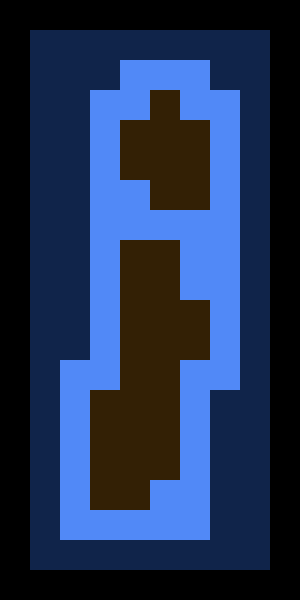
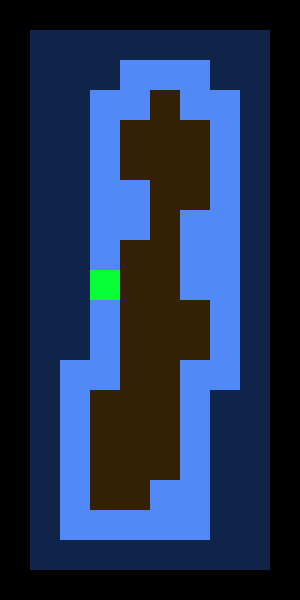
worked on classes
Water and Wind added.
Propulsion and child classes added.
Boat functions and data members re-arranged and added.

Changed region(s): [[0.48, 0.33, 0.6, 0.42], [0.3, 0.45, 0.42, 0.51]]

diff --git a/Waka/chart.cpp b/Waka/chart.cpp
@@ -13,9 +13,9 @@ map_
 	{ Feature::kUnkn, Feature::kDeep, Feature::kDeep, Feature::kShal, Feature::kLand, Feature::kLand, Feature::kLand, Feature::kShal, Feature::kDeep, Feature::kUnkn },
 	{ Feature::kUnkn, Feature::kDeep, Feature::kDeep, Feature::kShal, Feature::kLand, Feature::kLand, Feature::kLand, Feature::kShal, Feature::kDeep, Feature::kUnkn },
 	{ Feature::kUnkn, Feature::kDeep, Feature::kDeep, Feature::kShal, Feature::kShal, Feature::kLand, Feature::kLand, Feature::kShal, Feature::kDeep, Feature::kUnkn },
-	{ Feature::kUnkn, Feature::kDeep, Feature::kDeep, Feature::kShal, Feature::kShal, Feature::kShal, Feature::kShal, Feature::kShal, Feature::kDeep, Feature::kUnkn },
+	{ Feature::kUnkn, Feature::kDeep, Feature::kDeep, Feature::kShal, Feature::kShal, Feature::kLand, Feature::kShal, Feature::kShal, Feature::kDeep, Feature::kUnkn },
 	{ Feature::kUnkn, Feature::kDeep, Feature::kDeep, Feature::kShal, Feature::kLand, Feature::kLand, Feature::kShal, Feature::kShal, Feature::kDeep, Feature::kUnkn },
-	{ Feature::kUnkn, Feature::kDeep, Feature::kDeep, Feature::kShal, Feature::kLand, Feature::kLand, Feature::kShal, Feature::kShal, Feature::kDeep, Feature::kUnkn },
+	{ Feature::kUnkn, Feature::kDeep, Feature::kDeep, Feature::kStrt, Feature::kLand, Feature::kLand, Feature::kShal, Feature::kShal, Feature::kDeep, Feature::kUnkn },
 	{ Feature::kUnkn, Feature::kDeep, Feature::kDeep, Feature::kShal, Feature::kLand, Feature::kLand, Feature::kLand, Feature::kShal, Feature::kDeep, Feature::kUnkn },
 	{ Feature::kUnkn, Feature::kDeep, Feature::kDeep, Feature::kShal, Feature::kLand, Feature::kLand, Feature::kLand, Feature::kShal, Feature::kDeep, Feature::kUnkn },
 	{ Feature::kUnkn, Feature::kDeep, Feature::kShal, Feature::kShal, Feature::kLand, Feature::kLand, Feature::kShal, Feature::kShal, Feature::kDeep, Feature::kUnkn },

diff --git a/Waka/boat.h b/Waka/boat.h
@@ -8,25 +8,25 @@
 class Boat
 {
 public:
-	Boat(Hull const &hull);
+	Boat(Hull const& hull, Chart& chart, std::vector<Propulsion*>& propulsion);
 
 protected:
-	virtual ~Boat() = default; 
+	virtual ~Boat() = default;
 
 protected:
-	virtual void doGetName() noexcept = 0;
+	virtual std::string doGetName() noexcept = 0;
 
 public:
-	void getName() noexcept;
-	void moveBoat();
-	void turnBoat();
+	std::string getName() noexcept;
+	void moveBoat(Direction direction);
+	void setSail();
 
 public:
-	std::string name_;
-	Hull const &hull_;
+	Hull const& hull_;
 	Chart &chart_;
-	std::vector<Propulsion> propulsion_;
+	std::vector<Propulsion*>& propulsion_;
 
-
+	unsigned maxSpeed_{ 0 };
+	GPS gps_{ GPS(10,4) };
 };
 

diff --git a/Waka/water.cpp b/Waka/water.cpp
@@ -1,0 +1,42 @@
+#include "stdafx.h"
+#include "water.h"
+#include "randomgen.h"
+#include <cassert>
+
+Direction Water::getCurrentHeading() const noexcept
+{
+	return currentHeading_;
+}
+
+unsigned Water::getCurrentIntensity() const noexcept
+{
+	return currentIntensity_;
+}
+
+void Water::setCurrentHeading()
+{
+	unsigned const direction{ randomGen(4) };
+
+	switch (direction)
+	{
+	case 0:
+		currentHeading_ = kNorth;
+		break;
+	case 1:
+		currentHeading_ = kEast;
+		break;
+	case 2:
+		currentHeading_ = kSouth;
+		break;
+	case 3:
+		currentHeading_ = kWest;
+		break;
+	default:
+		assert(false);
+	}
+}
+
+void Water::setCurrentIntensity()
+{
+	currentIntensity_ = randomGen(4);
+}

diff --git a/Waka/boat.cpp b/Waka/boat.cpp
@@ -1,16 +1,33 @@
 #include "stdafx.h"
 #include "boat.h"
 
-void Boat::getName() noexcept
+std::string Boat::getName() noexcept
 {
-	doGetName();
+	return doGetName();
 }
 
-Boat::Boat(Hull const & hull):
-hull_{hull}
+void Boat::moveBoat(Direction direction)
+{
+	gps_.move(direction, 1);
+}
+
+void Boat::setSail()
 {
 }
 
-void Boat::doGetName() noexcept
+Boat::Boat(Hull const& hull, Chart& chart, std::vector<Propulsion*>& propulsion) :
+	hull_{ hull },
+	chart_{ chart },
+	propulsion_{propulsion}
 {
+	getName();
+
+	auto speedTally = 0;
+
+	for (auto& propulsionIterator: propulsion)
+	{
+		speedTally += (*propulsionIterator).getKnots();
+	}
+
+	maxSpeed_ = speedTally;
 }

diff --git a/Waka/wind.cpp b/Waka/wind.cpp
@@ -1,0 +1,42 @@
+#include "stdafx.h"
+#include "wind.h"
+#include "randomgen.h"
+#include <cassert>
+
+Direction Wind::getWindHeading() const noexcept
+{
+	return windHeading_;
+}
+
+unsigned Wind::getWindIntensity() const noexcept
+{
+	return windIntensity_;
+}
+
+void Wind::setWindHeading()
+{
+	unsigned const direction{ randomGen(4) };
+
+	switch (direction)
+	{
+	case 0:
+		windHeading_ = kNorth;
+		break;
+	case 1:
+		windHeading_ = kEast;
+		break;
+	case 2:
+		windHeading_ = kSouth;
+		break;
+	case 3:
+		windHeading_ = kWest;
+		break;
+	default:
+		assert(false);
+	}
+}
+
+void Wind::setWindIntensity()
+{
+	windIntensity_ = randomGen(4);
+}

diff --git a/Waka/main.cpp b/Waka/main.cpp
@@ -5,17 +5,22 @@
 #include "monohull.h"
 #include "multihull.h"
 #include "raft.h"
+#include "propulsion.h"
 
 int main()
 {
-	MultiHull const testHull;
+	//MultiHull const testHull;
 
-	auto myRaft = Raft(testHull);
+	//auto myRaft = Raft(testHull);
 
-	auto testHeight = testHull.getMaxWaveHeight();
+	//myRaft.getName();
 
-	myRaft.hull_.getMaxWaveHeight();
+	//auto testHeight = testHull.getMaxWaveHeight();
 
+	//myRaft.hull_.getMaxWaveHeight();
+
+	//myRaft.propulsion_[0].getKnots();
+	//
 
 	return 0;
 }

diff --git a/Waka/randomgen.cpp b/Waka/randomgen.cpp
@@ -1,0 +1,12 @@
+#include "stdafx.h"
+#include "randomgen.h"
+
+unsigned randomGen(const unsigned max)
+{
+	// Create random number generator and generate a number between 0 and numDoors - 1
+	static std::random_device rd;  //Will be used to obtain a seed for the random number engine
+	static std::mt19937 gen(rd()); //Standard mersenne_twister_engine seeded with rd()
+	const std::uniform_int_distribution<unsigned> dis(0, max - 1);
+
+	return dis(gen);
+}

diff --git a/Waka/raft.cpp b/Waka/raft.cpp
@@ -1,14 +1,12 @@
 #include "stdafx.h"
 #include "raft.h"
 
-Raft::Raft(Hull const& hull):
-Boat::Boat(hull)
+Raft::Raft(Hull const& hull, Chart& chart, std::vector<Propulsion*>& propulsion) :
+	Boat(hull, chart, propulsion)
 {
-
 }
 
-void Raft::doGetName()noexcept
+std::string Raft::doGetName()noexcept
 {
-	Boat::doGetName();
-	// TODO: Raft specific names
+	return "USS Black Jim";
 }

diff --git a/Waka/sailboat.cpp b/Waka/sailboat.cpp
@@ -1,8 +1,12 @@
 #include "stdafx.h"
 #include "sailboat.h"
 
-void Sailboat::doGetName() noexcept
+Sailboat::Sailboat(Hull const& hull, Chart& chart, std::vector<Propulsion*>& propulsion) :
+	Boat(hull, chart, propulsion)
 {
-	Boat::doGetName();
-	// TODO: Sailboat specific names
+}
+
+std::string Sailboat::doGetName() noexcept
+{
+	return "USS Archimedes";
 }

diff --git a/Waka/canoe.cpp b/Waka/canoe.cpp
@@ -1,8 +1,12 @@
 #include "stdafx.h"
 #include "canoe.h"
 
-void Canoe::doGetName() noexcept
+Canoe::Canoe(Hull const& hull, Chart& chart, std::vector<Propulsion*>& propulsion) :
+	Boat(hull, chart, propulsion)
 {
-	Boat::doGetName();
-	// TODO: Canoe specific names
+}
+std::string Canoe::doGetName() noexcept
+{
+
+	return "USS Pocahontas";
 }

diff --git a/Waka/water.h b/Waka/water.h
@@ -1,0 +1,18 @@
+#pragma once
+#include "direction.h"
+
+class Water
+{
+private:
+	Direction currentHeading_{ kNorth };
+	unsigned currentIntensity_{ 0 };
+
+public:
+	Direction getCurrentHeading() const noexcept;
+	unsigned getCurrentIntensity() const noexcept;
+
+private:
+	void setCurrentHeading();
+	void setCurrentIntensity();
+};
+

diff --git a/Waka/wind.h b/Waka/wind.h
@@ -1,0 +1,18 @@
+#pragma once
+#include "direction.h"
+
+class Wind
+{
+private:
+	Direction windHeading_{ kNorth };
+	unsigned windIntensity_{ 0 };
+
+public:
+	Direction getWindHeading() const noexcept;
+	unsigned getWindIntensity() const noexcept;
+
+private:
+	void setWindHeading();
+	void setWindIntensity();
+};
+
